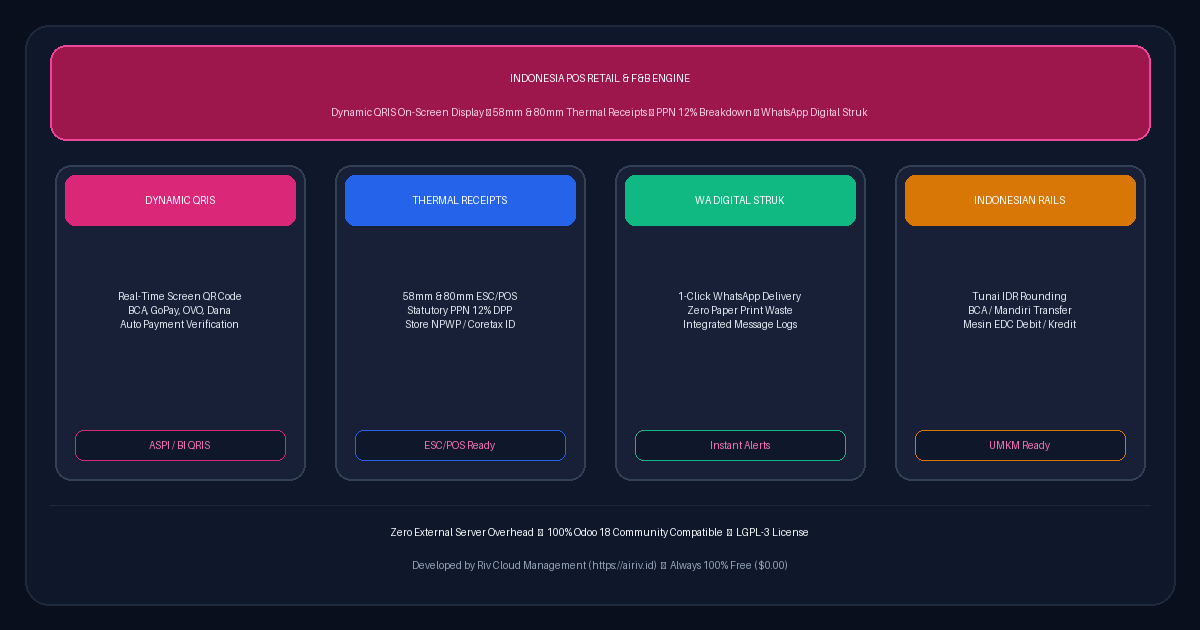
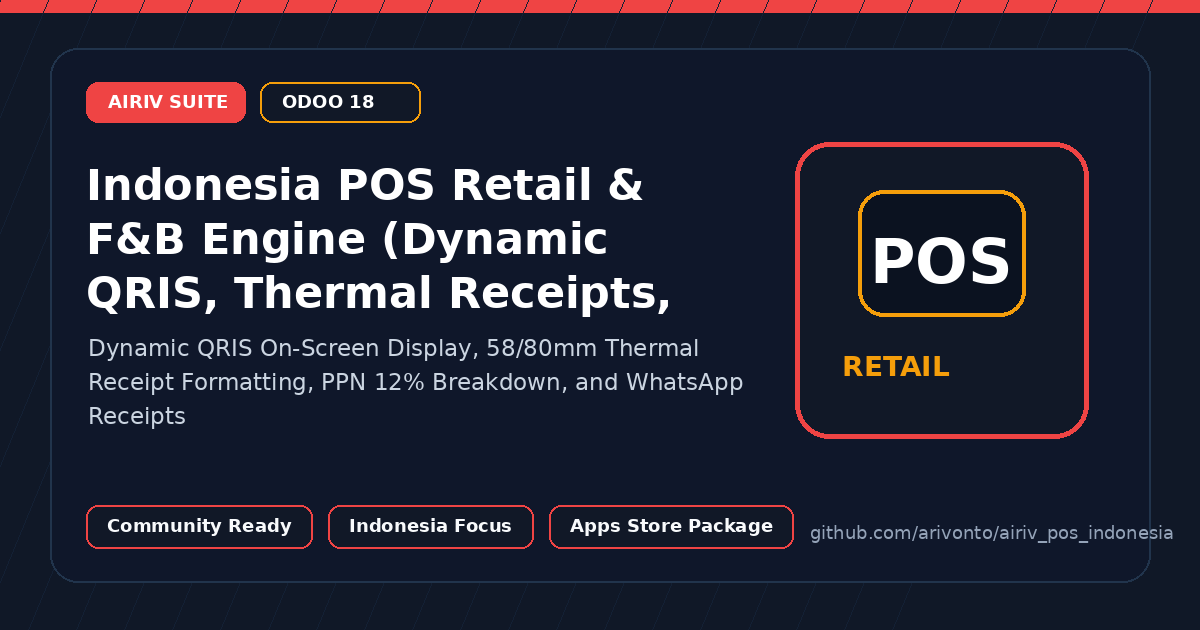
Refresh Odoo Apps Store assets and metadata

diff --git a/airiv_pos_indonesia/static/description/index.html b/airiv_pos_indonesia/static/description/index.html
@@ -1,172 +1,38 @@
 <!DOCTYPE html>
-<html lang="id">
+<html lang="en">
 <head>
-    <meta charset="utf-8"/>
-    <meta name="viewport" content="width=device-width, initial-scale=1.0"/>
-    <title>Indonesia POS Engine, Dynamic QRIS & Thermal Struk Suite</title>
+  <meta charset="utf-8">
+  <meta name="viewport" content="width=device-width, initial-scale=1">
+  <title>Indonesia POS Retail & F&B Engine (Dynamic QRIS, Thermal Receipts, WhatsApp Invoicing)</title>
+  <style>
+    body { margin:0; font-family: Arial, sans-serif; color:#14212f; background:#fff; }
+    .hero { padding:44px; border-radius:18px; background:#08111f; color:#fff; }
+    .badge { display:inline-block; padding:8px 12px; border-radius:999px; background:#0f766e; font-weight:700; font-size:13px; }
+    h1 { font-size:38px; line-height:1.15; margin:20px 0 12px; }
+    .lead { font-size:18px; color:#cbd5e1; max-width:900px; }
+    .grid { display:grid; grid-template-columns:repeat(3,1fr); gap:18px; margin:24px 0; }
+    .card { border:1px solid #e5e7eb; border-radius:14px; padding:22px; background:#fff; }
+    .card h3 { margin-top:0; color:#0f766e; }
+    .section { padding:28px 0; }
+    @media (max-width: 800px) { .grid { grid-template-columns:1fr; } h1 { font-size:30px; } .hero { padding:28px; } }
+  </style>
 </head>
-<body style="font-family: -apple-system, BlinkMacSystemFont, 'Segoe UI', Roboto, Helvetica, Arial, sans-serif; color: #0f172a; background-color: #ffffff; margin: 0; padding: 16px; box-sizing: border-box;">
-
-<!-- 1. Hero Card (Clean High-Contrast Light Theme) -->
-<div style="background-color: #f8fafc; border: 1px solid #cbd5e1; border-top: 6px solid #7c3aed; border-radius: 12px; padding: 32px 24px; margin-bottom: 32px; text-align: center; box-shadow: 0 4px 6px -1px rgba(0,0,0,0.05);">
-    <div style="display: inline-block; background-color: #7c3aed; color: #ffffff; font-size: 12px; font-weight: 800; padding: 6px 14px; border-radius: 20px; margin-bottom: 14px; text-transform: uppercase; letter-spacing: 0.5px;">
-        🇮🇩 KASIR UMKM & DYNAMIC QRIS READY
+<body>
+  <div class="hero">
+    <span class="badge">AIRIV Suite for Odoo 18</span>
+    <h1>Indonesia POS Retail & F&B Engine (Dynamic QRIS, Thermal Receipts, WhatsApp Invoicing)</h1>
+    <p class="lead">Dynamic QRIS On-Screen Display, 58/80mm Thermal Receipt Formatting, PPN 12% Breakdown, and WhatsApp Receipts</p>
+  </div>
+  <div class="section">
+    <div class="grid">
+      <div class="card"><h3>Business Ready</h3><p>Packaged as a focused Odoo application for Indonesian operating workflows.</p></div>
+      <div class="card"><h3>Community First</h3><p>Designed for Odoo 18 with clear dependencies, clean manifest metadata, and Apps Store assets.</p></div>
+      <div class="card"><h3>AIRIV UX</h3><p>Part of the AIRIV vertical ERP suite with consistent identity, iconography, and product positioning.</p></div>
     </div>
-    <h1 style="font-weight: 800; font-size: 28px; color: #0f172a; margin-top: 0; margin-bottom: 12px; line-height: 1.3;">
-        Indonesia POS Engine, Dynamic QRIS & Thermal Struk Suite
-    </h1>
-    <p style="font-size: 15.5px; color: #334155; max-width: 850px; margin: 0 auto 20px auto; line-height: 1.65;">
-        High-performance Indonesian Point of Sale (POS) extension for Odoo 18. Generates on-screen Dynamic QRIS codes, supports 58mm/80mm ESC/POS thermal printing, and sends digital WhatsApp receipts.
-    </p>
-    <div style="display: flex; justify-content: center; gap: 8px; flex-wrap: wrap;">
-        <span style="display: inline-block; background-color: #e2e8f0; color: #0f172a; border: 1px solid #cbd5e1; font-size: 12px; font-weight: 600; padding: 5px 12px; border-radius: 6px;">Odoo 18.0 Community</span>
-        <span style="display: inline-block; background-color: #e2e8f0; color: #0f172a; border: 1px solid #cbd5e1; font-size: 12px; font-weight: 600; padding: 5px 12px; border-radius: 6px;">LGPL-3 License</span>
-        <span style="display: inline-block; background-color: #059669; color: #ffffff; font-size: 12px; font-weight: 700; padding: 5px 12px; border-radius: 6px;">100% Free ($0.00)</span>
-        <span style="display: inline-block; background-color: #e2e8f0; color: #0f172a; border: 1px solid #cbd5e1; font-size: 12px; font-weight: 600; padding: 5px 12px; border-radius: 6px;">Zero External Overhead</span>
-    </div>
-</div>
-
-<!-- 2. Showcase Banner Image -->
-<div style="text-align: center; margin-bottom: 36px;">
-    <img src="banner.png" alt="Indonesia POS Engine, Dynamic QRIS & Thermal Struk Suite" style="border-radius: 12px; border: 1px solid #cbd5e1; max-width: 100%; height: auto; box-shadow: 0 4px 6px -1px rgba(0,0,0,0.08);"/>
-</div>
-
-<!-- 3. Core Pillars -->
-<div style="margin-bottom: 36px;">
-    <div style="text-align: center; margin-bottom: 24px;">
-        <h2 style="font-weight: 800; color: #0f172a; font-size: 22px; margin-top: 0; margin-bottom: 6px;">
-            Core Capabilities & Architecture
-        </h2>
-        <p style="color: #475569; font-size: 14.5px; margin: 0;">
-            Engineered specifically for Indonesian statutory compliance and operational efficiency
-        </p>
-    </div>
-
-    <div style="display: flex; flex-wrap: wrap; gap: 16px;">
-        
-        <div style="flex: 1 1 calc(25% - 16px); min-width: 240px; box-sizing: border-box; margin-bottom: 16px;">
-            <div style="background-color: #ffffff; border: 1px solid #cbd5e1; border-top: 5px solid #7c3aed; border-radius: 10px; padding: 20px; height: 100%; box-shadow: 0 2px 4px rgba(0,0,0,0.04); box-sizing: border-box;">
-                <h4 style="font-weight: 800; color: #0f172a; margin-top: 0; margin-bottom: 10px; font-size: 16px;">On-Screen Dynamic QRIS</h4>
-                <p style="font-size: 13.5px; color: #334155; line-height: 1.6; margin-bottom: 14px;">Displays exact-amount QRIS barcodes on customer-facing screens for instant settlement.</p>
-                <div style="display: inline-block; background-color: #7c3aed; color: #ffffff; font-size: 11px; font-weight: 700; padding: 4px 10px; border-radius: 6px; text-transform: uppercase; letter-spacing: 0.5px;">
-                    QRIS POS
-                </div>
-            </div>
-        </div>
-        
-        <div style="flex: 1 1 calc(25% - 16px); min-width: 240px; box-sizing: border-box; margin-bottom: 16px;">
-            <div style="background-color: #ffffff; border: 1px solid #cbd5e1; border-top: 5px solid #059669; border-radius: 10px; padding: 20px; height: 100%; box-shadow: 0 2px 4px rgba(0,0,0,0.04); box-sizing: border-box;">
-                <h4 style="font-weight: 800; color: #0f172a; margin-top: 0; margin-bottom: 10px; font-size: 16px;">58mm & 80mm ESC/POS</h4>
-                <p style="font-size: 13.5px; color: #334155; line-height: 1.6; margin-bottom: 14px;">Clean, ink-saving thermal receipt formatting for USB, Bluetooth, and Network POS printers.</p>
-                <div style="display: inline-block; background-color: #059669; color: #ffffff; font-size: 11px; font-weight: 700; padding: 4px 10px; border-radius: 6px; text-transform: uppercase; letter-spacing: 0.5px;">
-                    Thermal Struk
-                </div>
-            </div>
-        </div>
-        
-        <div style="flex: 1 1 calc(25% - 16px); min-width: 240px; box-sizing: border-box; margin-bottom: 16px;">
-            <div style="background-color: #ffffff; border: 1px solid #cbd5e1; border-top: 5px solid #0284c7; border-radius: 10px; padding: 20px; height: 100%; box-shadow: 0 2px 4px rgba(0,0,0,0.04); box-sizing: border-box;">
-                <h4 style="font-weight: 800; color: #0f172a; margin-top: 0; margin-bottom: 10px; font-size: 16px;">WhatsApp Digital Struk</h4>
-                <p style="font-size: 13.5px; color: #334155; line-height: 1.6; margin-bottom: 14px;">1-click dispatch of digital cash register receipts directly to customer WhatsApp.</p>
-                <div style="display: inline-block; background-color: #0284c7; color: #ffffff; font-size: 11px; font-weight: 700; padding: 4px 10px; border-radius: 6px; text-transform: uppercase; letter-spacing: 0.5px;">
-                    Struk Digital
-                </div>
-            </div>
-        </div>
-        
-        <div style="flex: 1 1 calc(25% - 16px); min-width: 240px; box-sizing: border-box; margin-bottom: 16px;">
-            <div style="background-color: #ffffff; border: 1px solid #cbd5e1; border-top: 5px solid #d97706; border-radius: 10px; padding: 20px; height: 100%; box-shadow: 0 2px 4px rgba(0,0,0,0.04); box-sizing: border-box;">
-                <h4 style="font-weight: 800; color: #0f172a; margin-top: 0; margin-bottom: 10px; font-size: 16px;">Cash Rounding (Uang Pas)</h4>
-                <p style="font-size: 13.5px; color: #334155; line-height: 1.6; margin-bottom: 14px;">Automatic rounding to nearest Rp 100 / Rp 500 for physical cash transactions.</p>
-                <div style="display: inline-block; background-color: #d97706; color: #ffffff; font-size: 11px; font-weight: 700; padding: 4px 10px; border-radius: 6px; text-transform: uppercase; letter-spacing: 0.5px;">
-                    Pembulatan Kas
-                </div>
-            </div>
-        </div>
-        
-    </div>
-</div>
-
-<!-- 4. Key Enterprise Features -->
-<div style="background-color: #f8fafc; border: 1px solid #cbd5e1; border-radius: 12px; padding: 28px 20px; margin-bottom: 36px;">
-    <h3 style="font-weight: 800; color: #0f172a; font-size: 18px; margin-top: 0; margin-bottom: 18px; border-bottom: 2px solid #e2e8f0; padding-bottom: 10px;">
-        Key Enterprise Features & Workflow Automation
-    </h3>
-    <div style="display: flex; flex-wrap: wrap; gap: 16px;">
-        
-        <div style="flex: 1 1 calc(50% - 16px); min-width: 280px; box-sizing: border-box; margin-bottom: 16px;">
-            <div style="background-color: #ffffff; border: 1px solid #e2e8f0; border-left: 4px solid #7c3aed; border-radius: 8px; padding: 16px; height: 100%; box-sizing: border-box;">
-                <h5 style="font-weight: 700; color: #0f172a; margin-top: 0; margin-bottom: 8px; font-size: 15px;">1. Zero Latency Offline Sync</h5>
-                <p style="color: #334155; font-size: 13.5px; line-height: 1.6; margin: 0;">Processes transactions offline and synchronizes payment batches upon reconnection.</p>
-            </div>
-        </div>
-        
-        <div style="flex: 1 1 calc(50% - 16px); min-width: 280px; box-sizing: border-box; margin-bottom: 16px;">
-            <div style="background-color: #ffffff; border: 1px solid #e2e8f0; border-left: 4px solid #7c3aed; border-radius: 8px; padding: 16px; height: 100%; box-sizing: border-box;">
-                <h5 style="font-weight: 700; color: #0f172a; margin-top: 0; margin-bottom: 8px; font-size: 15px;">2. Indonesian Struk Formatting</h5>
-                <p style="color: #334155; font-size: 13.5px; line-height: 1.6; margin: 0;">Includes NPWP toko, Nomor Transaksi, Subtotal, PB1/PPN, and custom footer messages.</p>
-            </div>
-        </div>
-        
-        <div style="flex: 1 1 calc(50% - 16px); min-width: 280px; box-sizing: border-box; margin-bottom: 16px;">
-            <div style="background-color: #ffffff; border: 1px solid #e2e8f0; border-left: 4px solid #7c3aed; border-radius: 8px; padding: 16px; height: 100%; box-sizing: border-box;">
-                <h5 style="font-weight: 700; color: #0f172a; margin-top: 0; margin-bottom: 8px; font-size: 15px;">3. Cashier Role Isolation</h5>
-                <p style="color: #334155; font-size: 13.5px; line-height: 1.6; margin: 0;">Restricts price overriding and drawer popping based on cashier security profiles.</p>
-            </div>
-        </div>
-        
-        <div style="flex: 1 1 calc(50% - 16px); min-width: 280px; box-sizing: border-box; margin-bottom: 16px;">
-            <div style="background-color: #ffffff; border: 1px solid #e2e8f0; border-left: 4px solid #7c3aed; border-radius: 8px; padding: 16px; height: 100%; box-sizing: border-box;">
-                <h5 style="font-weight: 700; color: #0f172a; margin-top: 0; margin-bottom: 8px; font-size: 15px;">4. Multi-Payment Split</h5>
-                <p style="color: #334155; font-size: 13.5px; line-height: 1.6; margin: 0;">Allows customers to split payments across Cash, Dynamic QRIS, and Debit Cards.</p>
-            </div>
-        </div>
-        
-    </div>
-</div>
-
-<!-- 5. Technical Specifications Table -->
-<div style="margin-bottom: 36px;">
-    <h3 style="font-weight: 800; color: #0f172a; font-size: 18px; margin-top: 0; margin-bottom: 14px;">
-        Module Technical Specifications
-    </h3>
-    <div style="overflow-x: auto;">
-        <table style="width: 100%; border-collapse: collapse; font-size: 13.5px; border: 1px solid #cbd5e1; background-color: #ffffff;">
-            <tbody>
-                <tr style="border-bottom: 1px solid #cbd5e1;">
-                    <td style="font-weight: 700; width: 30%; background-color: #f1f5f9; color: #0f172a; padding: 12px 16px; border-right: 1px solid #cbd5e1;">Framework Compatibility</td>
-                    <td style="color: #0f172a; padding: 12px 16px;">Odoo 18.0 Community Edition (OWL 2.0 & App Drawer Native)</td>
-                </tr>
-                <tr style="border-bottom: 1px solid #cbd5e1;">
-                    <td style="font-weight: 700; background-color: #f1f5f9; color: #0f172a; padding: 12px 16px; border-right: 1px solid #cbd5e1;">License & Price</td>
-                    <td style="color: #0f172a; padding: 12px 16px;">GNU LGPL-3 &bull; <strong style="color: #059669;">Free ($0.00)</strong></td>
-                </tr>
-                <tr style="border-bottom: 1px solid #cbd5e1;">
-                    <td style="font-weight: 700; background-color: #f1f5f9; color: #0f172a; padding: 12px 16px; border-right: 1px solid #cbd5e1;">Dependencies</td>
-                    <td style="color: #0f172a; padding: 12px 16px;"><code style="background-color: #f1f5f9; color: #0f172a; padding: 2px 6px; border-radius: 4px; font-weight: 600;">base, point_of_sale, account, stock</code></td>
-                </tr>
-                <tr style="border-bottom: 1px solid #cbd5e1;">
-                    <td style="font-weight: 700; background-color: #f1f5f9; color: #0f172a; padding: 12px 16px; border-right: 1px solid #cbd5e1;">Regulatory Standards</td>
-                    <td style="color: #0f172a; padding: 12px 16px;">Bank Indonesia QRIS MPM Dynamic, ESC/POS Thermal Standards, Standar Kasir Retail</td>
-                </tr>
-                <tr>
-                    <td style="font-weight: 700; background-color: #f1f5f9; color: #0f172a; padding: 12px 16px; border-right: 1px solid #cbd5e1;">Developer</td>
-                    <td style="color: #0f172a; padding: 12px 16px;">Riv Cloud Management (<a href="https://airiv.id" target="_blank" style="color: #0284c7; text-decoration: underline; font-weight: 600;">https://airiv.id</a>)</td>
-                </tr>
-            </tbody>
-        </table>
-    </div>
-</div>
-
-<!-- 6. Footer -->
-<div style="text-align: center; padding: 20px 0; border-top: 1px solid #cbd5e1; color: #475569; font-size: 13.5px;">
-    <p style="margin-bottom: 8px; color: #334155;">
-        Developed for Indonesian Businesses & Enterprises &bull; <strong>Riv Cloud Management</strong>
-    </p>
-    <a href="https://airiv.id" target="_blank" style="display: inline-block; background-color: #0f172a; color: #ffffff; font-weight: 700; padding: 7px 18px; border-radius: 6px; text-decoration: none; font-size: 12.5px;">
-        Visit airiv.id
-    </a>
-</div>
-
+  </div>
+  <div class="section">
+    <h2>Overview</h2>
+    <p>Indonesia Point of Sale (POS) Localization for Odoo 18 Community. - Dynamic QRIS Display & Payment Engine (Midtrans / Xendit / Static QRIS ASPI standards) - Indonesian Thermal ESC/POS Receipt Formats (58mm & 80mm with PPN 12% and NPWP / Coretax metadata) - Instant WhatsApp Digital Receipt Delivery via Fonnte & Native Offline Sandbox - Pre-configured Indonesian Payment Methods (QRIS, Tunai IDR, Transfer BCA/Mandiri/BRI, EDC Debit) - Zero External Server Overhead - 100% Odoo 18 Community Native</p>
+  </div>
 </body>
 </html>

diff --git a/airiv_pos_indonesia/__manifest__.py b/airiv_pos_indonesia/__manifest__.py
@@ -14,6 +14,7 @@ Indonesia Point of Sale (POS) Localization for Odoo 18 Community.
 """,
     'author': 'Riv Cloud Management',
     'website': 'https://airiv.id',
+    'url': 'https://github.com/arivonto/airiv_pos_indonesia/blob/18.0/static/description/index.html',
     'license': 'LGPL-3',
     'price': 0.0,
     'currency': 'EUR',

diff --git a/README.md b/README.md
@@ -1,63 +1,27 @@
 # Indonesia POS Retail & F&B Engine (Dynamic QRIS, Thermal Receipts, WhatsApp Invoicing)
 
-[![License: LGPL-3](https://img.shields.io/badge/License-LGPL--3-blue.svg)](https://www.gnu.org/licenses/lgpl-3.0)
-[![Odoo: 18.0 Community](https://img.shields.io/badge/Odoo-18.0%20Community-purple.svg)](https://www.odoo.com)
-[![Price: Free ($0.00)](https://img.shields.io/badge/Price-%240.00%20(Free)-green.svg)](https://airiv.id)
-[![Target: QRIS & Thermal](https://img.shields.io/badge/Payment-Dynamic%20QRIS%20%26%20Thermal%20ESC%2FPOS-pink.svg)](https://airiv.id)
+Dynamic QRIS On-Screen Display, 58/80mm Thermal Receipt Formatting, PPN 12% Breakdown, and WhatsApp Receipts
 
-A modern, high-speed Indonesian Point of Sale (POS) retail and F&B engine built specifically for **Odoo 18.0 Community Edition**. Provides dynamic QRIS on-screen display, Indonesian ESC/POS 58mm/80mm thermal receipts with PPN 12% breakdown, and instant WhatsApp digital receipt delivery.
+## Odoo Apps Store
 
----
+This repository contains the Odoo 18 module package for `airiv_pos_indonesia`.
 
-## Detailed Capabilities
+Required store assets are maintained in:
 
-### 1. Dynamic QRIS On-Screen Display
-* **Real-Time Payment**: Generates transaction-specific dynamic QR codes on customer-facing screens or tablets.
-* **Multi-E-Wallet Acceptance**: Supports BCA Mobile, Mandiri Livin', GoPay, OVO, ShopeePay, and Dana via standard ASPI EMVCo QRIS specifications.
+```text
+airiv_pos_indonesia/static/description/
+  icon.png
+  banner.png
+  index.html
+```
 
-### 2. Indonesian Thermal Receipt Engine (58mm & 80mm)
-* **ESC/POS Optimization**: Pre-formatted thermal layouts for mobile EDC printers (58mm) and desktop POS counter printers (80mm).
-* **Statutory PPN 12% Breakdown**: Cleanly calculates and displays DPP and PPN 12% under UU HPP regulations.
-* **Coretax Ready**: Automatically prints store NPWP 16/NIK on receipt headers.
+## Technical
 
-### 3. WhatsApp Digital Receipt Delivery
-* **Paperless Invoicing**: Send complete itemized digital receipts directly to customer WhatsApp numbers in 1 click.
-* **Integrated Auditing**: Logs delivery payloads inside Odoo with zero third-party middleware.
+- Odoo version: `18.0.1.0.0`
+- License: `LGPL-3`
+- Author: `Riv Cloud Management`
+- Website: `https://airiv.id`
 
----
+## Quality Gate
 
-## Validated Commercial Benchmark (Tested & Scrutinized)
-
-The complete POS workflow was verified under live Odoo 18.0 Community conditions:
-
-1. **POS Configuration**: Store register configured with 80mm thermal receipt width, PPN 12% tax summary, and Dynamic QRIS payment rails.
-2. **Order Execution**: POS Order processed for 2 units of `Kopi Arabika Premium 250g` totaling **Rp 112.000,00** (DPP: Rp 100.000,00, PPN 12%: Rp 12.000,00).
-3. **WhatsApp Struk Dispatch**: Dispatched itemized digital receipt to customer `0812-3456-7890`, verified with delivery status `sent`.
-
----
-
-## Installation & Configuration Guide
-
-1. **Deploy Module**:
-   Place `airiv_pos_indonesia` inside your Odoo `custom_addons` directory.
-
-2. **Activate Module**:
-   * Navigate to **Apps > Update Apps List**.
-   * Search for `Indonesia POS Retail & F&B Engine` and click **Activate**.
-
-3. **Configure Thermal Printing & QRIS**:
-   * Open **Point of Sale > Configuration > Settings**.
-   * Select your preferred thermal paper width (58mm or 80mm) and input your store NPWP 16/NIK.
-   * Enable QRIS Dynamic and WhatsApp digital receipts.
-
----
-
-## Module Specifications
-
-| Specification | Details |
-| :--- | :--- |
-| **Framework Version** | Odoo 18.0 Community Edition (OWL POS client compliant) |
-| **License** | GNU Lesser General Public License v3.0 (LGPL-3) |
-| **Price** | Free ($0.00) |
-| **Dependencies** | `point_of_sale`, `account`, `base` |
-| **Server Overhead** | Zero (Native ORM, direct browser QR rendering) |
+GitHub Actions runs the AIRIV Odoo Apps Store CI audit on branch `18.0`.
